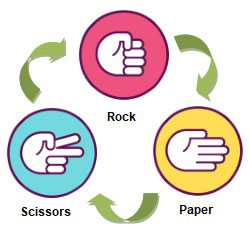
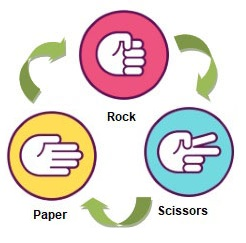
changed rules image

diff --git a/README.md b/README.md
@@ -1,7 +1,7 @@
 # Rock-Paper-Scissors Game.
 
 This is my own version of the very famous Rock-Paper-Scissors game.
-The poDeveloped in HTML, CSS and JavaScript. Fully interactive and responsive, adapting to different devices (desktop, tablet and mobile).
+The project was developed in HTML, CSS and JavaScript. Fully interactive and responsive, adapting to different devices (desktop, tablet and mobile).
 
 The purpose of this project was to keep practicing JavaScript. I'll keep working on it from time to time, with the goal of refactoring the code.
 
